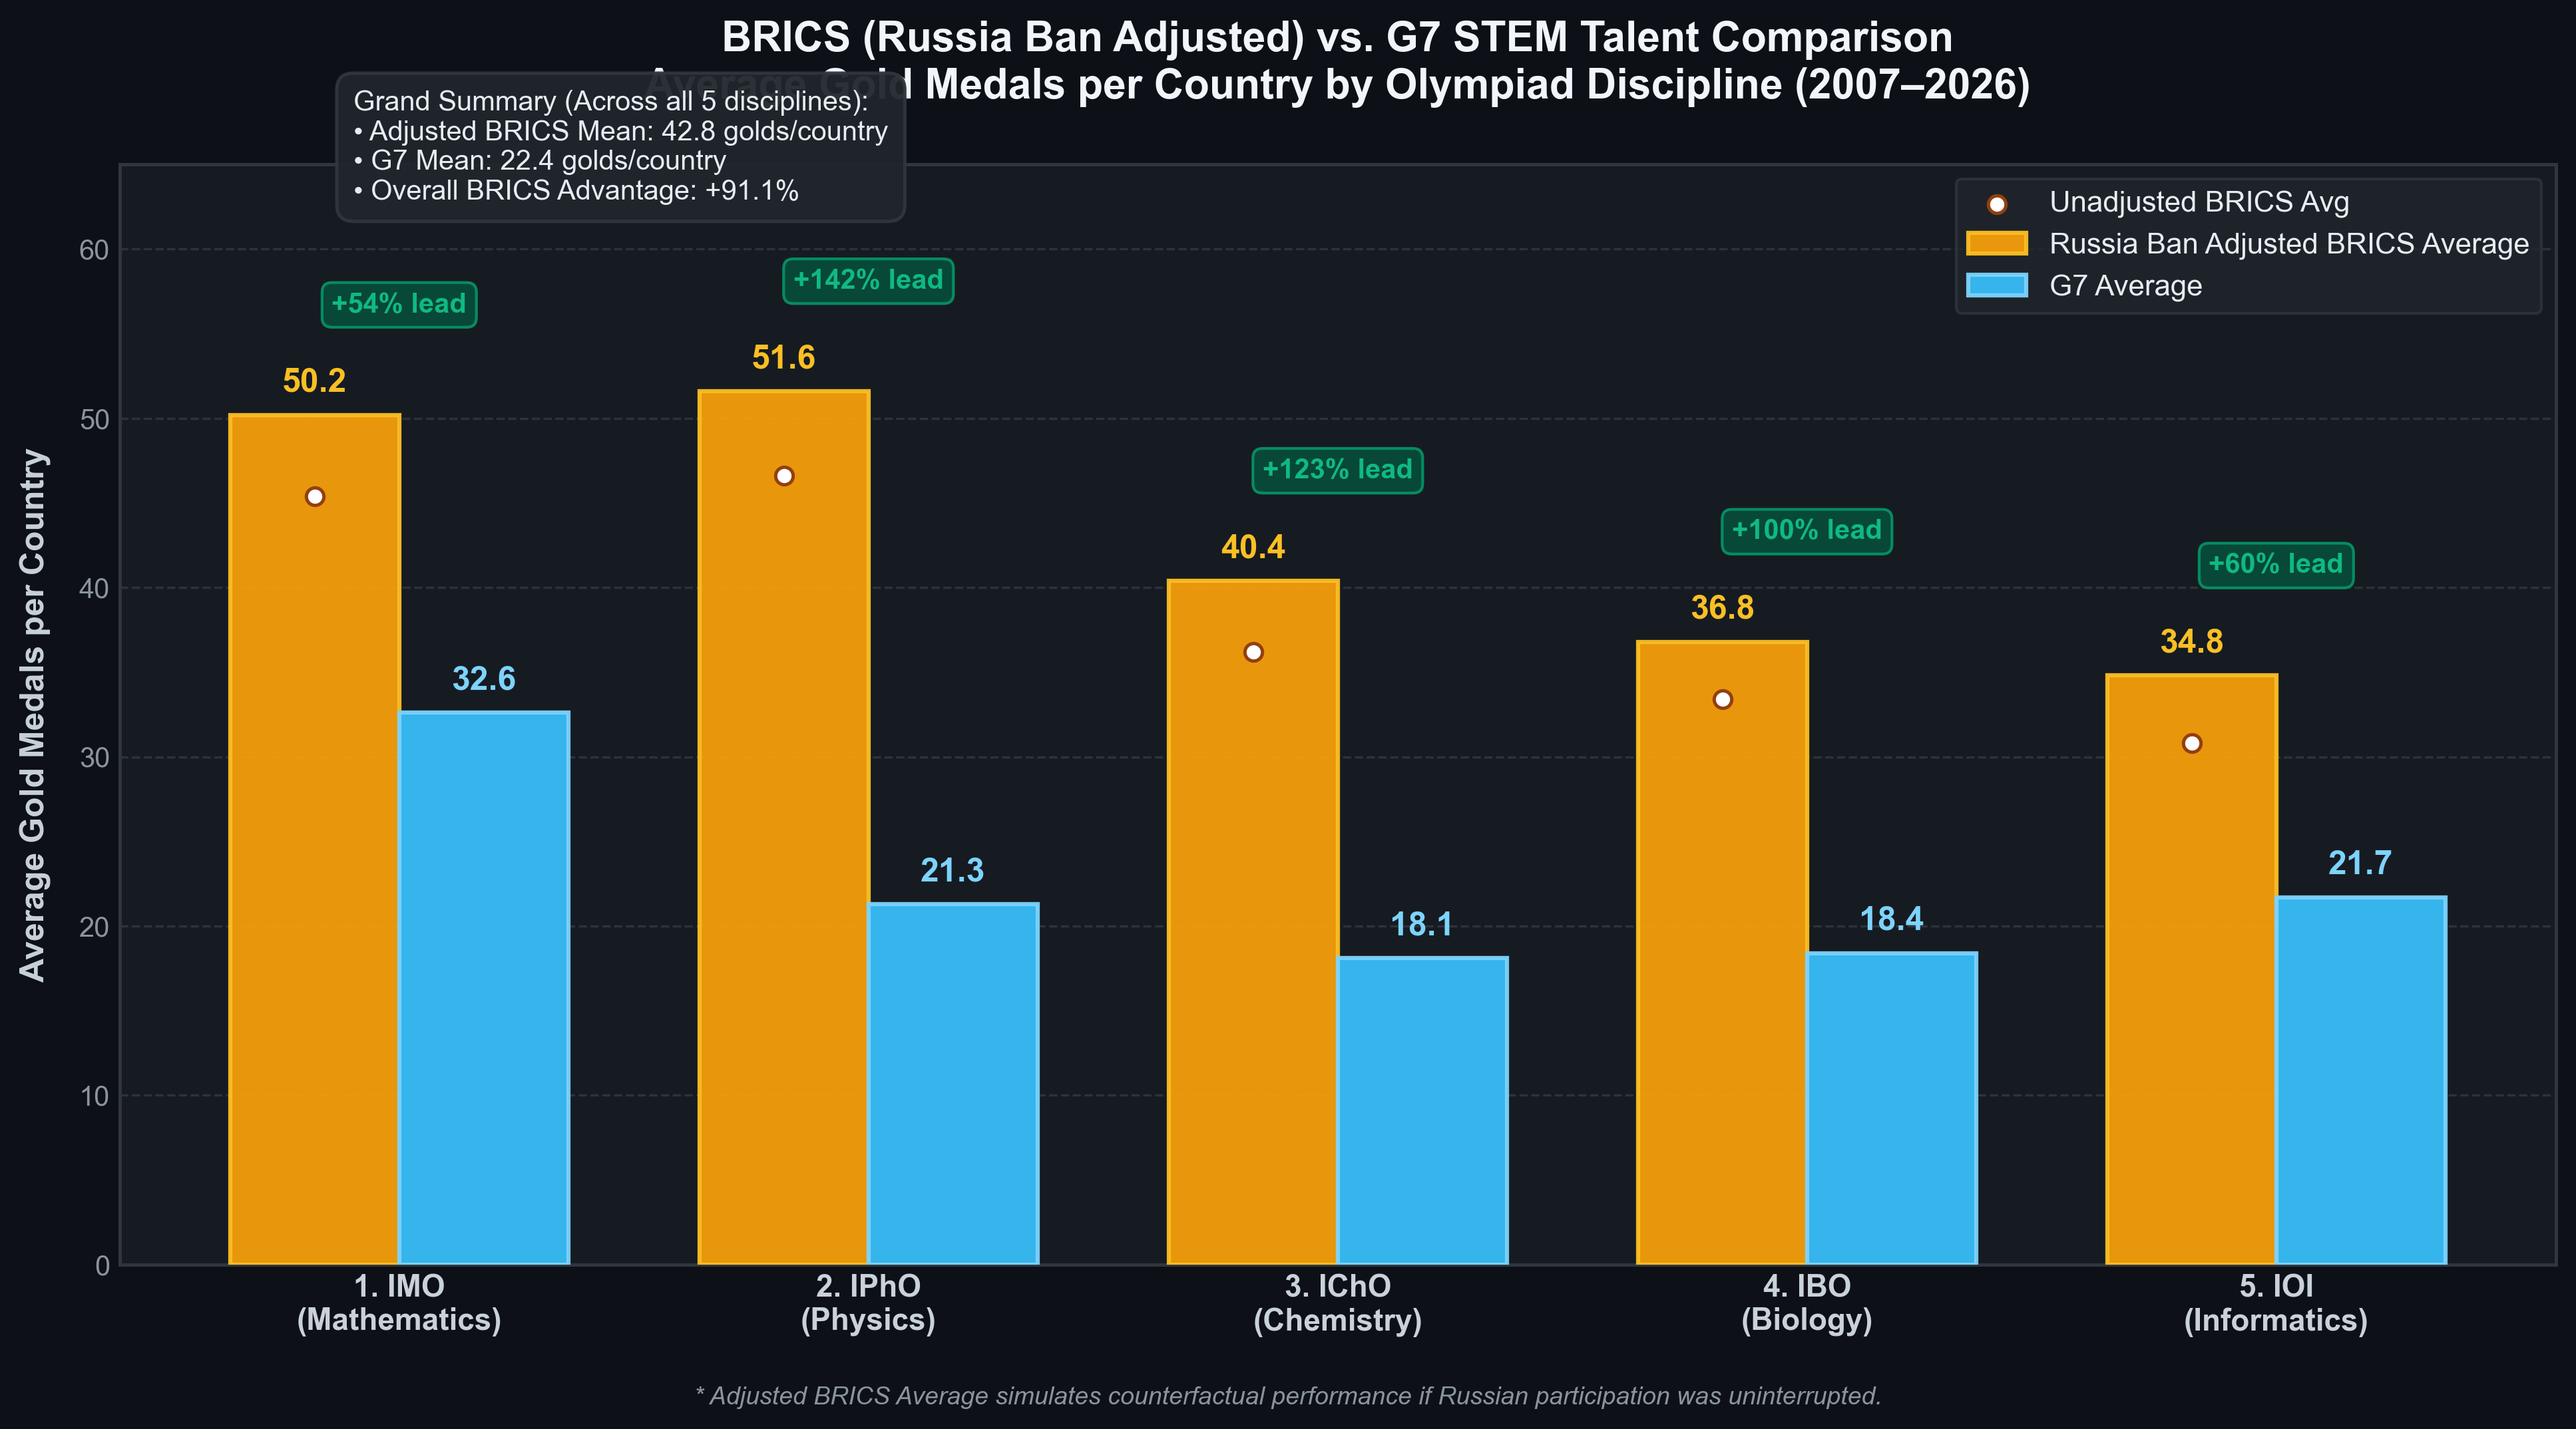
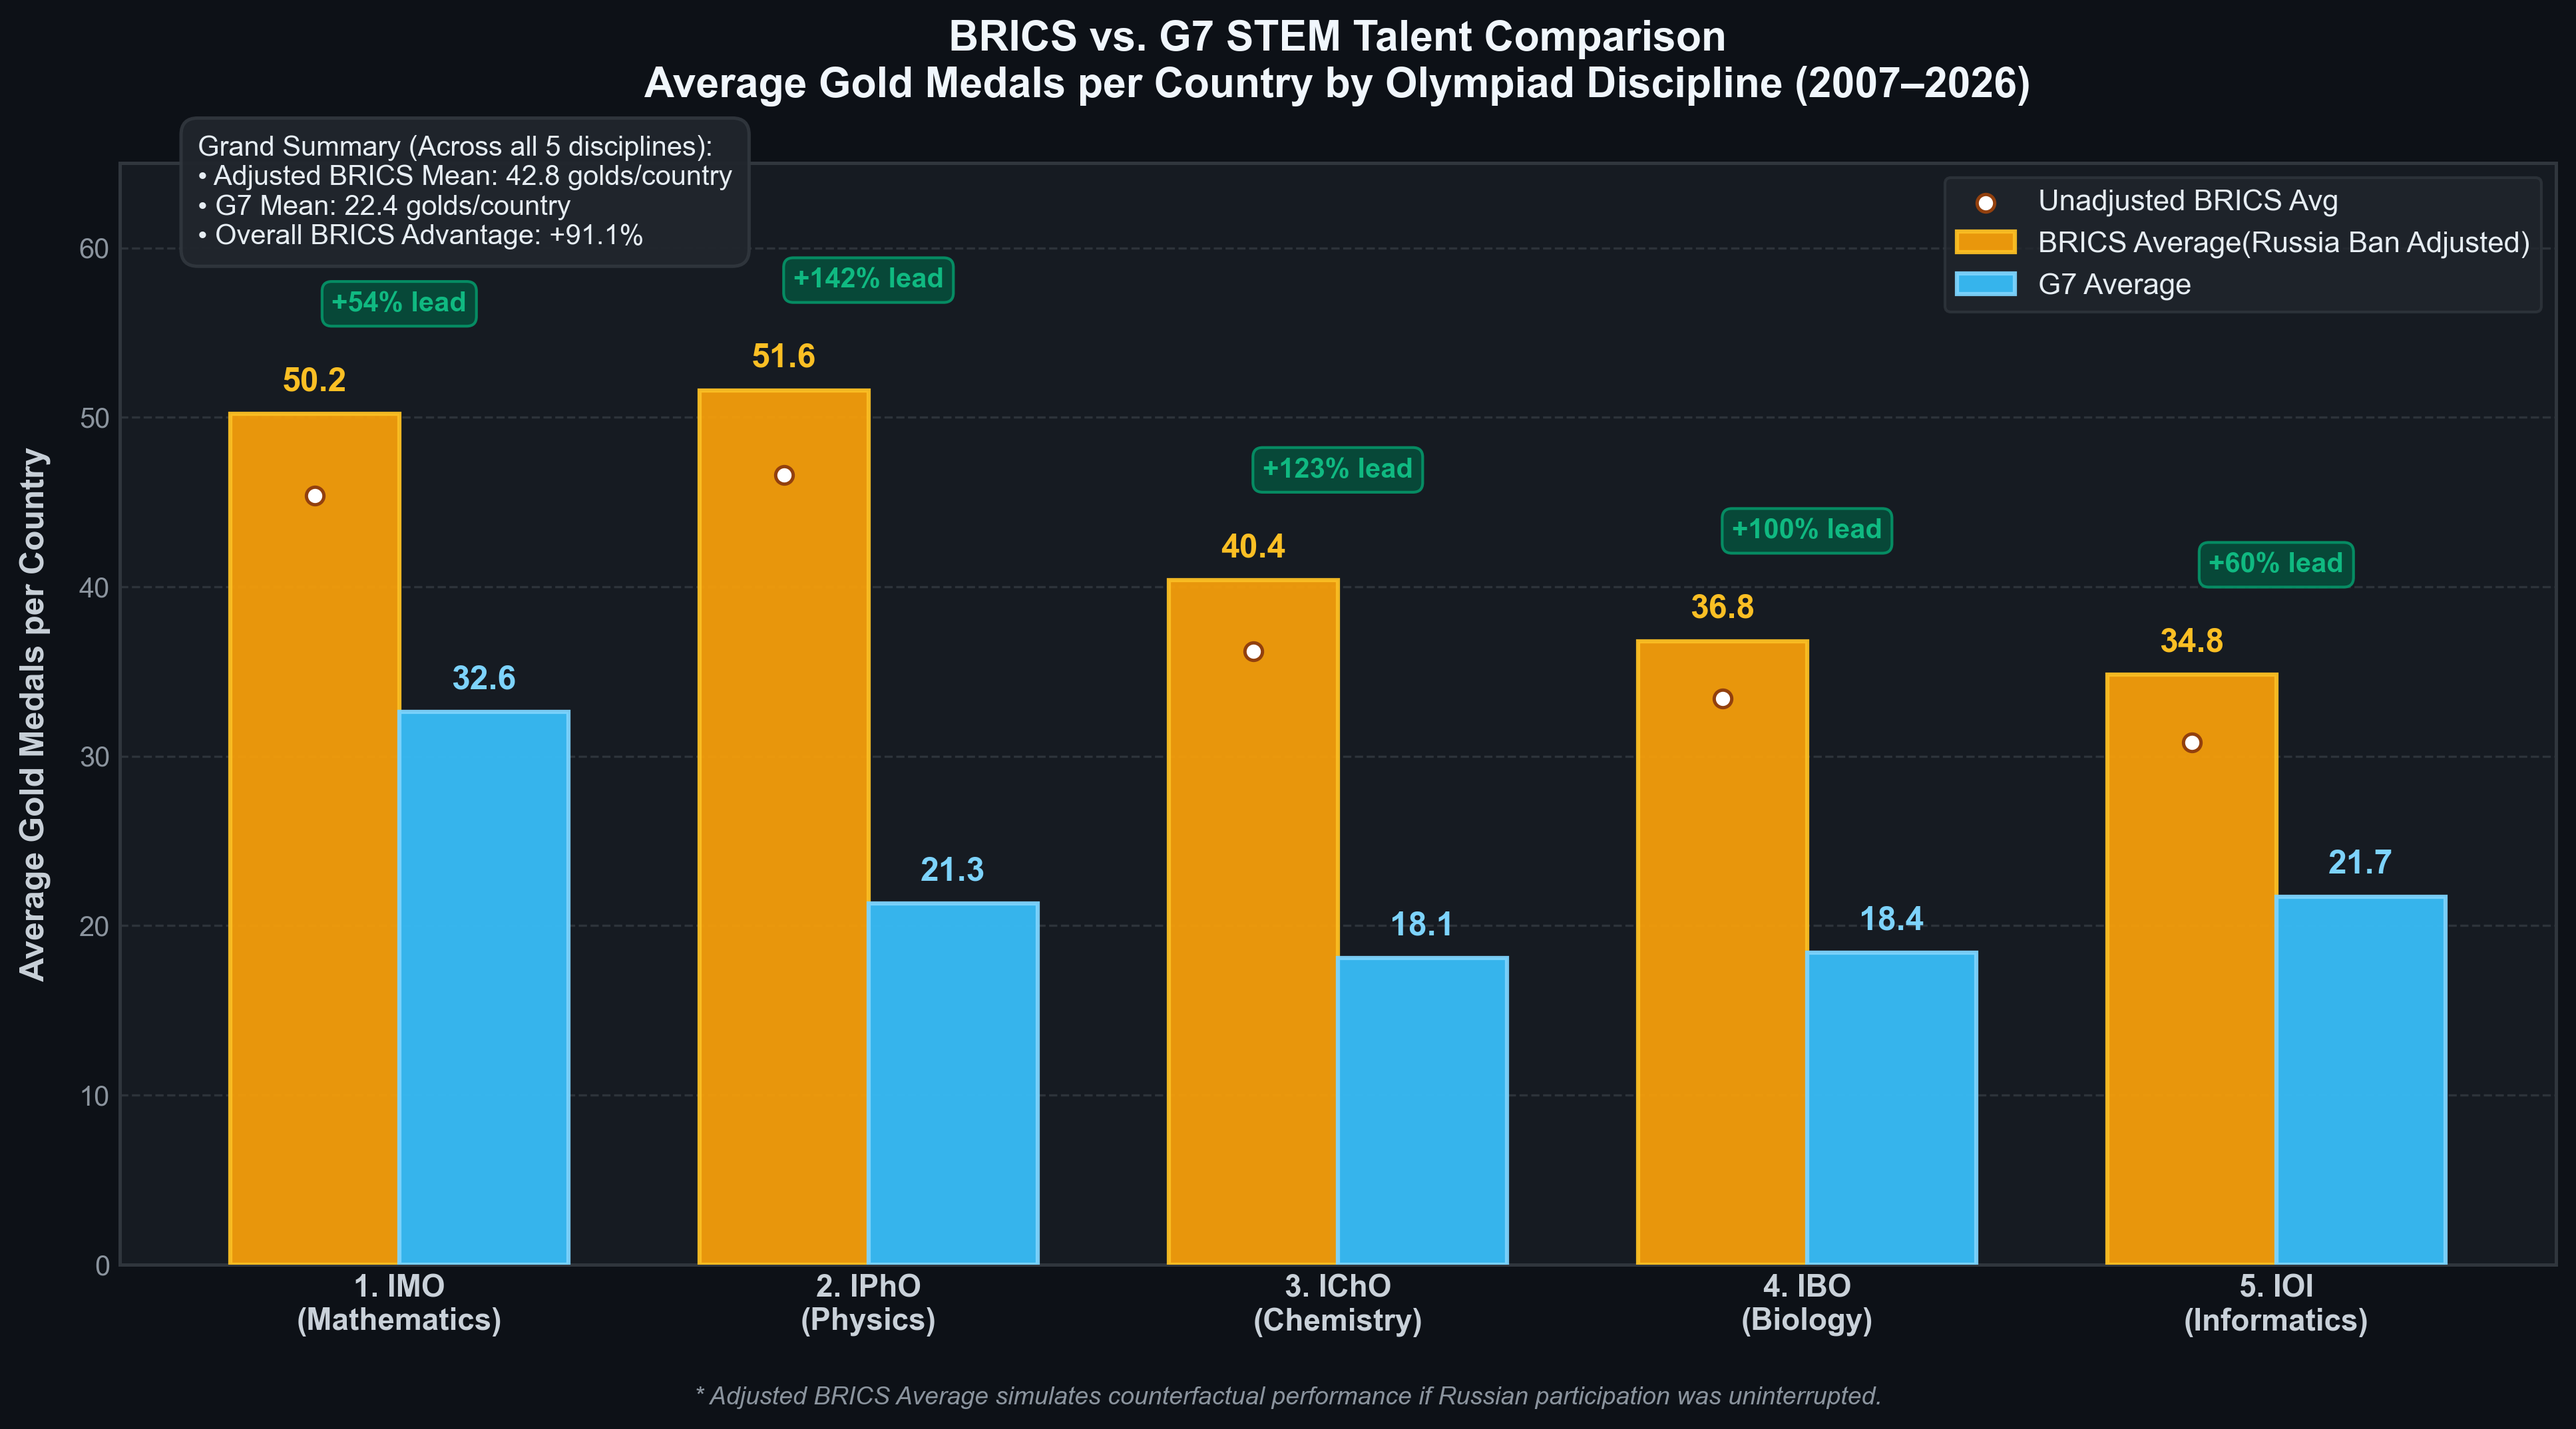
chart_minor_Adjustments

diff --git a/generate_comparison_chart.py b/generate_comparison_chart.py
@@ -33,7 +33,7 @@ def generate_comparison_chart():
         x - width/2, 
         brics_adjusted_avg, 
         width, 
-        label='Russia Ban Adjusted BRICS Average', 
+        label='BRICS Average(Russia Ban Adjusted)', 
         color=color_brics,
         edgecolor='#fbbf24',
         linewidth=1.5,
@@ -108,13 +108,13 @@ def generate_comparison_chart():
         "• Overall BRICS Advantage: +91.1%"
     )
     fig.text(
-        0.14, 0.82, grand_text,
+        0.08, 0.79, grand_text,
         fontsize=10, color='#e6edf3',
         bbox=dict(boxstyle='round,pad=0.6', facecolor='#21262d', edgecolor='#30363d', alpha=0.95, lw=1.2)
     )
 
     # Titles & Labels
-    ax.set_title('BRICS (Russia Ban Adjusted) vs. G7 STEM Talent Comparison\nAverage Gold Medals per Country by Olympiad Discipline (2007–2026)', 
+    ax.set_title('BRICS vs. G7 STEM Talent Comparison\nAverage Gold Medals per Country by Olympiad Discipline (2007–2026)', 
                  fontsize=15, fontweight='bold', color='#f0f6fc', pad=24)
     ax.set_xticks(x)
     ax.set_xticklabels(olympiads, fontsize=11, fontweight='semibold', color='#c9d1d9')
@@ -152,6 +152,7 @@ def generate_comparison_chart():
     output_dir.mkdir(parents=True, exist_ok=True)
     output_path = output_dir / "brics_vs_g7_comparison.png"
     plt.savefig(output_path, dpi=300, facecolor=fig.get_facecolor(), bbox_inches='tight')
+    # plt.show()
     plt.close()
     print(f"Chart saved successfully at {output_path}")
 
